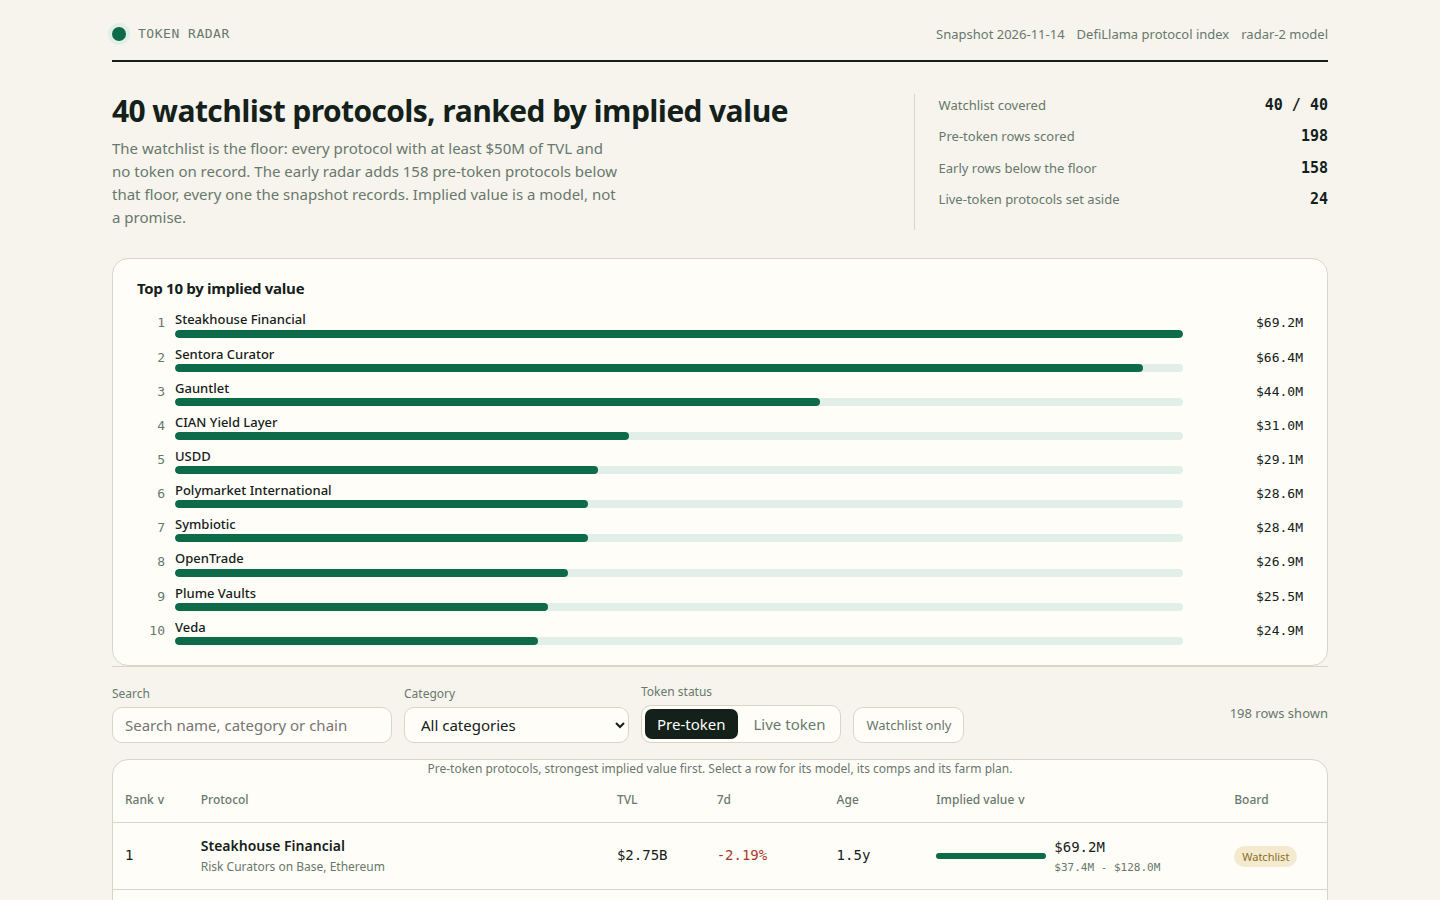
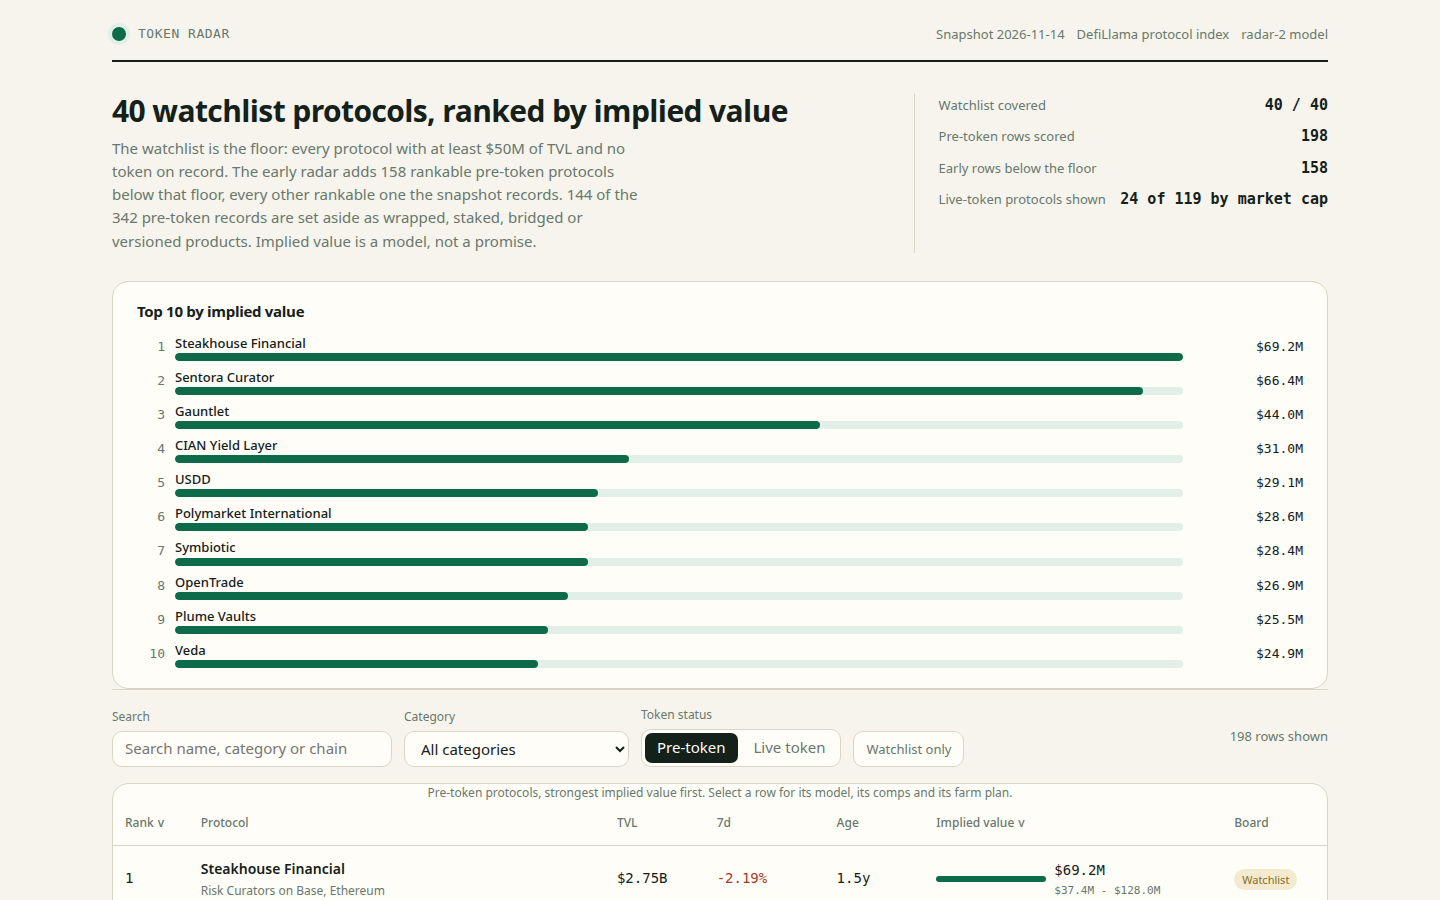
token-radar-01: fix 4 farm plans, vary farm steps, fix lede + live label

diff --git a/lib/model.ts b/lib/model.ts
@@ -195,6 +195,9 @@ export interface RadarData {
   board_size: number;
   early_size: number;
   live_size: number;
+  pre_token_total: number;
+  excluded_pre_token: number;
+  live_total: number;
   validation: Validation;
   rows: RadarRow[];
   live: LiveRow[];
@@ -422,6 +425,39 @@ function chainOf(p: SnapshotProtocol): string {
   return p.chains.length > 0 ? p.chains[0]! : 'its main chain';
 }
 
+/**
+ * The chain a farm step names. The snapshot's first chain, except a Bitlayer product, whose
+ * vaults run on Bitlayer itself: the official YBTC deposit guide (docs.bitlayer.org) takes
+ * YBTC.B or Bitlayer native BTC into a Bitlayer vault, and the snapshot lists the YBTC family
+ * under Bitcoin and Ethereum only, so the chain is named from the protocol's own docs.
+ */
+function farmChain(p: SnapshotProtocol): string {
+  if (p.name.toLowerCase().includes('bitlayer')) return 'Bitlayer';
+  return chainOf(p);
+}
+
+/** Approximate gas for one transaction on a chain, in dollars: Ethereum mainnet is dear, Bitcoin middling, the rest cheap. */
+function gasFor(chain: string): number {
+  if (chain === 'Ethereum') return 8;
+  if (chain === 'Bitcoin') return 3;
+  return 1;
+}
+
+/** The wallet a farm step tells the farmer to set up, in the chain's own terms. */
+function walletFor(chain: string): string {
+  if (chain === 'Bitcoin') return 'a fresh Bitcoin wallet';
+  if (chain === 'Solana') return 'a fresh Solana wallet';
+  if (chain === 'Sui') return 'a fresh Sui wallet';
+  return `a fresh wallet on ${chain}`;
+}
+
+/** Step 1: set up a wallet, in the chain's own terms; a watchlist protocol gets a dedicated wallet. */
+function setupText(p: SnapshotProtocol, chain: string, watchlist: boolean): string {
+  const wallet = walletFor(chain);
+  if (watchlist) return `Set up ${wallet} just for ${p.name} on ${chain} — the watchlist names this protocol — and keep its seed phrase offline.`;
+  return `Set up ${wallet} that holds only the funds you plan to farm on ${chain}, and keep its seed phrase offline.`;
+}
+
 /** How much capital one farm position needs, from the protocol's own TVL. */
 function capitalFor(p: SnapshotProtocol): number {
   if (p.tvl_usd >= 5_000_000_000) return 250;
@@ -455,45 +491,104 @@ function actionFor(p: SnapshotProtocol, capital: number, chain: string): string 
   if (c.includes('launchpad')) return `Commit $${capital} of USDC to the ${name} sale on ${chain} and hold the allocation.`;
   if (c.includes('payment')) return `Route $${capital} of payments through ${name} on ${chain} and keep the receipts.`;
   if (c.includes('gaming') || c.includes('social') || c.includes('ai') || c.includes('oracle')) return `Use $${capital} of the ${name} app on ${chain} each week and keep the activity on one wallet.`;
+  // BTC-anchored protocols (Anchor BTC, Decentralized BTC) take BTC, not USDC: USDC does not exist
+  // natively on Bitcoin. Vishwa bridges BTC to Sui (Fuzzland audit of the Vishwa light client);
+  // Bitlayer YBTC takes BTC or YBTC.B into a Bitlayer vault (docs.bitlayer.org); Chain Fusion's
+  // ckBTC is minted from native BTC (liquidium.fi docs); SUBFROST wraps BTC into frBTC on Bitcoin
+  // itself (docs.subfrost.io). The chain comes from farmChain, which names Bitlayer for Bitlayer.
+  if (c.includes('btc')) return `Deposit $${capital} of BTC into ${name} on ${chain} and keep the position open.`;
   return `Deposit $${capital} of USDC into ${name} on ${chain} and keep the position open.`;
 }
 
+/** Step 3: a second, different category action each week, distinct from the step-2 action. */
+function weeklyActionFor(p: SnapshotProtocol, chain: string): string {
+  const c = (p.category ?? '').toLowerCase();
+  const name = p.name;
+  if (c.includes('lend') || c.includes('cdp') || c.includes('collateral')) return `Borrow a small amount against the position once a week and repay it, so the wallet shows repeat activity.`;
+  if (c.includes('curator') || c.includes('allocator') || c.includes('indexes')) return `Read the vault's new allocation note once a week and note any change in strategy.`;
+  if (c.includes('dex') || c.includes('yield') || c.includes('leveraged farm') || c.includes('liquidity') || c.includes('farm')) return `Swap a small amount through the pool once a week so the wallet shows repeat activity.`;
+  if (c.includes('bridge') || c.includes('cross chain')) return `Bridge a small amount back or to a second chain once a week through the same route.`;
+  if (c.includes('staking') || c.includes('restak')) return `Claim or compound the staking reward once a week and keep the receipt token.`;
+  if (c.includes('perpetual') || c.includes('derivative') || c.includes('options') || c.includes('basis')) return `Close and reopen a small hedge once a week instead of leaving one trade untouched.`;
+  if (c.includes('prediction')) return `Settle one market position a week and place a fresh one on ${name}.`;
+  if (c.includes('stable')) return `Move a small amount in and out of the stable asset once a week through the same route.`;
+  if (c.includes('rwa')) return `Check the yield asset's new accrual once a week and record the balance.`;
+  if (c.includes('insurance')) return `Check the cover's terms once a week and note any change in the policy.`;
+  if (c.includes('launchpad')) return `Check the sale's next round once a week and note the allocation window.`;
+  if (c.includes('payment')) return `Route one small payment through ${name} on ${chain} once a week and keep the receipt.`;
+  if (/\b(gaming|social|ai|oracle)\b/.test(c)) return `Use the ${name} app once a week and keep the activity on the same wallet.`;
+  if (c.includes('btc')) return `Check the BTC peg and the protocol's backing once a week and record the rate.`;
+  return `Repeat the deposit action with a small amount once a week so the wallet shows repeat activity.`;
+}
+
+/** Step 4: the hold, with the reason varying by the protocol's age, category, chain and whether the watchlist names it. */
+function holdText(p: SnapshotProtocol, age: number | null, hold: number, watchlist: boolean, chain: string): string {
+  if (age !== null && age < 180) return `Hold the position for at least ${hold} days — young protocols often snapshot early on ${chain}, so a longer window counts.`;
+  if (watchlist) return `Hold the position for at least ${hold} days; the watchlist already tracks this protocol, so the hold is about qualifying.`;
+  if (age !== null && age >= 365) return `Hold the position for at least ${hold} days; a mature ${p.category ?? 'protocol'} protocol's snapshots reward a steady position.`;
+  return `Hold the position for at least ${hold} days so the activity is counted in more than one snapshot.`;
+}
+
+/** Categories whose apps plausibly run a points, rewards or eligibility program. */
+const POINTS_CATEGORIES = ['dex', 'yield', 'lend', 'cdp', 'collateral', 'staking', 'restak', 'perpetual', 'derivative', 'options', 'basis', 'curator', 'allocator', 'indexes', 'prediction', 'farm', 'launchpad', 'governance'];
+
+/** Step 5: rewards, without assuming every protocol runs a points program. */
+function rewardsText(p: SnapshotProtocol, chain: string, watchlist: boolean): string {
+  const c = (p.category ?? '').toLowerCase();
+  if (c.includes('btc')) return `Before you withdraw, check the protocol's official docs for how wrapped BTC is redeemed on ${chain} and whether any rewards program applies.`;
+  if (POINTS_CATEGORIES.some((k) => c.includes(k))) {
+    if (watchlist) return `Before you withdraw, check the protocol's official app on ${chain} for any points, rewards or eligibility program — the watchlist already tracks this protocol — and follow only the link it publishes.`;
+    return `Before you withdraw, check the protocol's official app on ${chain} for any points, rewards or eligibility program and follow only the link it publishes.`;
+  }
+  return `Before you withdraw, check the protocol's official docs for any eligibility or rewards program; if it has none, record the position on ${chain} and move on.`;
+}
+
+/** Step 6: the farm log, with the note varying by the position's size, the protocol's age and the chain. */
+function logText(p: SnapshotProtocol, age: number | null, chain: string): string {
+  if (p.tvl_usd >= 1_000_000_000) return `Write the wallet, the dates and every transaction on ${chain} in a farm log; a large position is worth a full record before you unwind it.`;
+  if (age !== null && age < 180) return `Write the wallet, the dates and every transaction on ${chain} in a farm log and review it weekly while the protocol is young.`;
+  if (p.tvl_usd < 100_000_000) return `Write the wallet, the dates and every transaction on ${chain} in a farm log; small positions are easy to forget, so the log is the record.`;
+  return `Write the wallet, the dates and every transaction on ${chain} in a farm log so you can repeat the position or unwind it.`;
+}
+
 /**
- * A protocol's farm plan: six steps, each an action with a cost and a time. The plan is derived
- * from the protocol's own record (category, chains, TVL, age), never from a hand-written list of names.
+ * A protocol's farm plan: six steps, each an action with a cost and a time. Every step varies
+ * with the protocol's own record (category, chains, TVL, age, watchlist), so no two protocols
+ * share a plan unless their records agree on every input that shapes it.
  */
-export function farmSteps(p: SnapshotProtocol, age: number | null): FarmStep[] {
-  const chain = chainOf(p);
+export function farmSteps(p: SnapshotProtocol, age: number | null, watchlist: boolean): FarmStep[] {
+  const chain = farmChain(p);
   const capital = capitalFor(p);
   const hold = holdDaysFor(age);
+  const gas = gasFor(chain);
   return [
     {
-      text: `Use a fresh wallet that holds only the funds you plan to farm, and keep its seed phrase offline.`,
-      cost: 'under $3 of gas for the first transaction',
+      text: setupText(p, chain, watchlist),
+      cost: `about $${gas} of gas for the first transaction`,
       time: '5 minutes',
     },
     {
       text: actionFor(p, capital, chain),
-      cost: `$${capital} of capital and about $${capital >= 150 ? 8 : 4} of gas`,
+      cost: `$${capital} of capital and about $${gas} of gas`,
       time: '15 minutes to set up',
     },
     {
-      text: `Make one qualifying action each week, such as a deposit, a borrow, a swap or a vote.`,
-      cost: 'about $2 of gas a week',
+      text: weeklyActionFor(p, chain),
+      cost: `about $${gas} of gas a week`,
       time: '10 minutes a week',
     },
     {
-      text: `Hold the position for at least ${hold} days so the activity is counted in more than one snapshot.`,
+      text: holdText(p, age, hold, watchlist, chain),
       cost: `the $${capital} stays in the position`,
       time: `${hold} days`,
     },
     {
-      text: `Before you withdraw, open the protocol's own points or rewards page and claim only from the link it publishes.`,
+      text: rewardsText(p, chain, watchlist),
       cost: 'no fee to check, and never pay to claim',
       time: '10 minutes',
     },
     {
-      text: `Write the wallet, the dates and every transaction in a farm log so you can repeat the position or unwind it.`,
+      text: logText(p, age, chain),
       cost: 'nothing but the log',
       time: '5 minutes',
     },
@@ -548,7 +643,7 @@ export function buildBoard(snapshot: Snapshot, model: ModelConstants = MODEL): B
       maturity_multiplier: s.v.maturityMult,
       age_days: s.v.age,
     },
-    farm_steps: farmSteps(s.p, s.v.age).map(stepText),
+    farm_steps: farmSteps(s.p, s.v.age, watchlist.has(s.p.slug)).map(stepText),
   }));
 }
 
@@ -601,6 +696,8 @@ export function buildRadar(snapshot: Snapshot, model: ModelConstants = MODEL): {
   const live = liveRows(snapshot);
   const comps = liveComps(snapshot);
   const early = board.filter((r) => !r.watchlist).length;
+  const preTokenTotal = snapshot.protocols.filter(isPreToken).length;
+  const excludedPreToken = preTokenTotal - board.length;
   const radar: RadarData = {
     as_of: snapshot.as_of,
     source: snapshot.source,
@@ -611,6 +708,9 @@ export function buildRadar(snapshot: Snapshot, model: ModelConstants = MODEL): {
     board_size: board.length,
     early_size: early,
     live_size: live.length,
+    pre_token_total: preTokenTotal,
+    excluded_pre_token: excludedPreToken,
+    live_total: comps.length,
     validation: validateModel(snapshot, model),
     rows: board.map((r) => radarRow(r, comps, model)),
     live,

diff --git a/dashboard/app.js b/dashboard/app.js
@@ -54,9 +54,30 @@
     return node;
   }
 
-  // The farm plan is the same derivation main.ts writes to board.json: category, chains, TVL and age
-  // decide the action, the capital, the hold and every cost and time. No name is special-cased.
+  // The farm plan is the same derivation main.ts writes to board.json: category, chains, TVL, age
+  // and watchlist decide the action, the capital, the hold and every cost and time. One chain is
+  // named from a protocol's own docs, not the snapshot: Bitlayer, for Bitlayer's own vaults.
   function chainOf(p) { return p.chains && p.chains.length > 0 ? p.chains[0] : 'its main chain'; }
+  function farmChain(p) {
+    if ((p.name || '').toLowerCase().indexOf('bitlayer') >= 0) return 'Bitlayer';
+    return chainOf(p);
+  }
+  function gasFor(chain) {
+    if (chain === 'Ethereum') return 8;
+    if (chain === 'Bitcoin') return 3;
+    return 1;
+  }
+  function walletFor(chain) {
+    if (chain === 'Bitcoin') return 'a fresh Bitcoin wallet';
+    if (chain === 'Solana') return 'a fresh Solana wallet';
+    if (chain === 'Sui') return 'a fresh Sui wallet';
+    return 'a fresh wallet on ' + chain;
+  }
+  function setupText(p, chain, watchlist) {
+    var wallet = walletFor(chain);
+    if (watchlist) return 'Set up ' + wallet + ' just for ' + p.name + ' on ' + chain + ' — the watchlist names this protocol — and keep its seed phrase offline.';
+    return 'Set up ' + wallet + ' that holds only the funds you plan to farm on ' + chain + ', and keep its seed phrase offline.';
+  }
   function capitalFor(p) {
     if (p.tvl_usd >= 5e9) return 250;
     if (p.tvl_usd >= 1e9) return 150;
@@ -85,7 +106,50 @@
     if (c.indexOf('launchpad') >= 0) return 'Commit $' + capital + ' of USDC to the ' + name + ' sale on ' + chain + ' and hold the allocation.';
     if (c.indexOf('payment') >= 0) return 'Route $' + capital + ' of payments through ' + name + ' on ' + chain + ' and keep the receipts.';
     if (c.indexOf('gaming') >= 0 || c.indexOf('social') >= 0 || c.indexOf('ai') >= 0 || c.indexOf('oracle') >= 0) return 'Use $' + capital + ' of the ' + name + ' app on ' + chain + ' each week and keep the activity on one wallet.';
+    // BTC-anchored protocols take BTC, not USDC: USDC does not exist natively on Bitcoin.
+    if (c.indexOf('btc') >= 0) return 'Deposit $' + capital + ' of BTC into ' + name + ' on ' + chain + ' and keep the position open.';
     return 'Deposit $' + capital + ' of USDC into ' + name + ' on ' + chain + ' and keep the position open.';
+  }
+  function weeklyActionFor(p, chain) {
+    var c = (p.category || '').toLowerCase();
+    var name = p.name;
+    if (c.indexOf('lend') >= 0 || c.indexOf('cdp') >= 0 || c.indexOf('collateral') >= 0) return 'Borrow a small amount against the position once a week and repay it, so the wallet shows repeat activity.';
+    if (c.indexOf('curator') >= 0 || c.indexOf('allocator') >= 0 || c.indexOf('indexes') >= 0) return "Read the vault's new allocation note once a week and note any change in strategy.";
+    if (c.indexOf('dex') >= 0 || c.indexOf('yield') >= 0 || c.indexOf('leveraged farm') >= 0 || c.indexOf('liquidity') >= 0 || c.indexOf('farm') >= 0) return 'Swap a small amount through the pool once a week so the wallet shows repeat activity.';
+    if (c.indexOf('bridge') >= 0 || c.indexOf('cross chain') >= 0) return 'Bridge a small amount back or to a second chain once a week through the same route.';
+    if (c.indexOf('staking') >= 0 || c.indexOf('restak') >= 0) return 'Claim or compound the staking reward once a week and keep the receipt token.';
+    if (c.indexOf('perpetual') >= 0 || c.indexOf('derivative') >= 0 || c.indexOf('options') >= 0 || c.indexOf('basis') >= 0) return 'Close and reopen a small hedge once a week instead of leaving one trade untouched.';
+    if (c.indexOf('prediction') >= 0) return 'Settle one market position a week and place a fresh one on ' + name + '.';
+    if (c.indexOf('stable') >= 0) return 'Move a small amount in and out of the stable asset once a week through the same route.';
+    if (c.indexOf('rwa') >= 0) return "Check the yield asset's new accrual once a week and record the balance.";
+    if (c.indexOf('insurance') >= 0) return "Check the cover's terms once a week and note any change in the policy.";
+    if (c.indexOf('launchpad') >= 0) return "Check the sale's next round once a week and note the allocation window.";
+    if (c.indexOf('payment') >= 0) return 'Route one small payment through ' + name + ' on ' + chain + ' once a week and keep the receipt.';
+    if (/\b(gaming|social|ai|oracle)\b/.test(c)) return 'Use the ' + name + ' app once a week and keep the activity on the same wallet.';
+    if (c.indexOf('btc') >= 0) return "Check the BTC peg and the protocol's backing once a week and record the rate.";
+    return 'Repeat the deposit action with a small amount once a week so the wallet shows repeat activity.';
+  }
+  function holdText(p, age, hold, watchlist, chain) {
+    if (age !== null && age !== undefined && age < 180) return 'Hold the position for at least ' + hold + ' days — young protocols often snapshot early on ' + chain + ', so a longer window counts.';
+    if (watchlist) return 'Hold the position for at least ' + hold + ' days; the watchlist already tracks this protocol, so the hold is about qualifying.';
+    if (age !== null && age !== undefined && age >= 365) return 'Hold the position for at least ' + hold + ' days; a mature ' + (p.category || 'protocol') + " protocol's snapshots reward a steady position.";
+    return 'Hold the position for at least ' + hold + ' days so the activity is counted in more than one snapshot.';
+  }
+  var POINTS_CATEGORIES = ['dex', 'yield', 'lend', 'cdp', 'collateral', 'staking', 'restak', 'perpetual', 'derivative', 'options', 'basis', 'curator', 'allocator', 'indexes', 'prediction', 'farm', 'launchpad', 'governance'];
+  function rewardsText(p, chain, watchlist) {
+    var c = (p.category || '').toLowerCase();
+    if (c.indexOf('btc') >= 0) return "Before you withdraw, check the protocol's official docs for how wrapped BTC is redeemed on " + chain + ' and whether any rewards program applies.';
+    if (POINTS_CATEGORIES.some(function (k) { return c.indexOf(k) >= 0; })) {
+      if (watchlist) return "Before you withdraw, check the protocol's official app on " + chain + ' for any points, rewards or eligibility program — the watchlist already tracks this protocol — and follow only the link it publishes.';
+      return "Before you withdraw, check the protocol's official app on " + chain + ' for any points, rewards or eligibility program and follow only the link it publishes.';
+    }
+    return "Before you withdraw, check the protocol's official docs for any eligibility or rewards program; if it has none, record the position on " + chain + ' and move on.';
+  }
+  function logText(p, age, chain) {
+    if (p.tvl_usd >= 1e9) return 'Write the wallet, the dates and every transaction on ' + chain + ' in a farm log; a large position is worth a full record before you unwind it.';
+    if (age !== null && age !== undefined && age < 180) return 'Write the wallet, the dates and every transaction on ' + chain + ' in a farm log and review it weekly while the protocol is young.';
+    if (p.tvl_usd < 1e8) return 'Write the wallet, the dates and every transaction on ' + chain + ' in a farm log; small positions are easy to forget, so the log is the record.';
+    return 'Write the wallet, the dates and every transaction on ' + chain + ' in a farm log so you can repeat the position or unwind it.';
   }
   function stepText(step) {
     var s = step.text + ' Cost: ' + step.cost + '. Time: ' + step.time + '.';
@@ -94,16 +158,18 @@
     return s;
   }
   function farmSteps(p) {
-    var chain = chainOf(p);
+    var chain = farmChain(p);
     var capital = capitalFor(p);
     var hold = holdDaysFor(p.age_days);
+    var gas = gasFor(chain);
+    var watchlist = !!p.watchlist;
     return [
-      { text: 'Use a fresh wallet that holds only the funds you plan to farm, and keep its seed phrase offline.', cost: 'under $3 of gas for the first transaction', time: '5 minutes' },
-      { text: actionFor(p, capital, chain), cost: '$' + capital + ' of capital and about $' + (capital >= 150 ? 8 : 4) + ' of gas', time: '15 minutes to set up' },
-      { text: 'Make one qualifying action each week, such as a deposit, a borrow, a swap or a vote.', cost: 'about $2 of gas a week', time: '10 minutes a week' },
-      { text: 'Hold the position for at least ' + hold + ' days so the activity is counted in more than one snapshot.', cost: 'the $' + capital + ' stays in the position', time: hold + ' days' },
-      { text: "Before you withdraw, open the protocol's own points or rewards page and claim only from the link it publishes.", cost: 'no fee to check, and never pay to claim', time: '10 minutes' },
-      { text: 'Write the wallet, the dates and every transaction in a farm log so you can repeat the position or unwind it.', cost: 'nothing but the log', time: '5 minutes' }
+      { text: setupText(p, chain, watchlist), cost: 'about $' + gas + ' of gas for the first transaction', time: '5 minutes' },
+      { text: actionFor(p, capital, chain), cost: '$' + capital + ' of capital and about $' + gas + ' of gas', time: '15 minutes to set up' },
+      { text: weeklyActionFor(p, chain), cost: 'about $' + gas + ' of gas a week', time: '10 minutes a week' },
+      { text: holdText(p, p.age_days, hold, watchlist, chain), cost: 'the $' + capital + ' stays in the position', time: hold + ' days' },
+      { text: rewardsText(p, chain, watchlist), cost: 'no fee to check, and never pay to claim', time: '10 minutes' },
+      { text: logText(p, p.age_days, chain), cost: 'nothing but the log', time: '5 minutes' }
     ].map(stepText);
   }
 
@@ -171,13 +237,13 @@
     return el('section', { class: 'lede' },
       el('div', null,
         el('h1', { text: DATA.watchlist_size + ' watchlist protocols, ranked by implied value' }),
-        el('p', { text: 'The watchlist is the floor: every protocol with at least $' + Math.round(DATA.floor_usd / 1e6) + 'M of TVL and no token on record. The early radar adds ' + DATA.early_size + ' pre-token protocols below that floor, every one the snapshot records. Implied value is a model, not a promise.' })
+        el('p', { text: 'The watchlist is the floor: every protocol with at least $' + Math.round(DATA.floor_usd / 1e6) + 'M of TVL and no token on record. The early radar adds ' + DATA.early_size + ' rankable pre-token protocols below that floor, every other rankable one the snapshot records. ' + DATA.excluded_pre_token + ' of the ' + DATA.pre_token_total + ' pre-token records are set aside as wrapped, staked, bridged or versioned products. Implied value is a model, not a promise.' })
       ),
       el('div', { class: 'facts' },
         el('div', { class: 'fact' }, el('span', { text: 'Watchlist covered' }), el('b', { text: DATA.watchlist_size + ' / ' + DATA.watchlist_size })),
         el('div', { class: 'fact' }, el('span', { text: 'Pre-token rows scored' }), el('b', { text: String(DATA.board_size) })),
         el('div', { class: 'fact' }, el('span', { text: 'Early rows below the floor' }), el('b', { text: String(DATA.early_size) })),
-        el('div', { class: 'fact' }, el('span', { text: 'Live-token protocols set aside' }), el('b', { text: String(DATA.live_size) }))
+        el('div', { class: 'fact' }, el('span', { text: 'Live-token protocols shown' }), el('b', { text: DATA.live_size + ' of ' + DATA.live_total + ' by market cap' }))
       )
     );
   }
@@ -217,7 +283,7 @@
       el('div', { class: 'field' }, el('label', { for: 'category', text: 'Category' }), select),
       el('div', { class: 'field' }, el('span', { class: 'sub', text: 'Token status' }), el('div', { class: 'tabs' }, pre, live)),
       watch,
-      el('span', { class: 'count', text: state.tab === 'pre-token' ? rows().length + ' rows shown' : DATA.live.length + ' live-token protocols' })
+      el('span', { class: 'count', text: state.tab === 'pre-token' ? rows().length + ' rows shown' : DATA.live.length + ' of ' + DATA.live_total + ' live-token protocols' })
     );
   }
 
